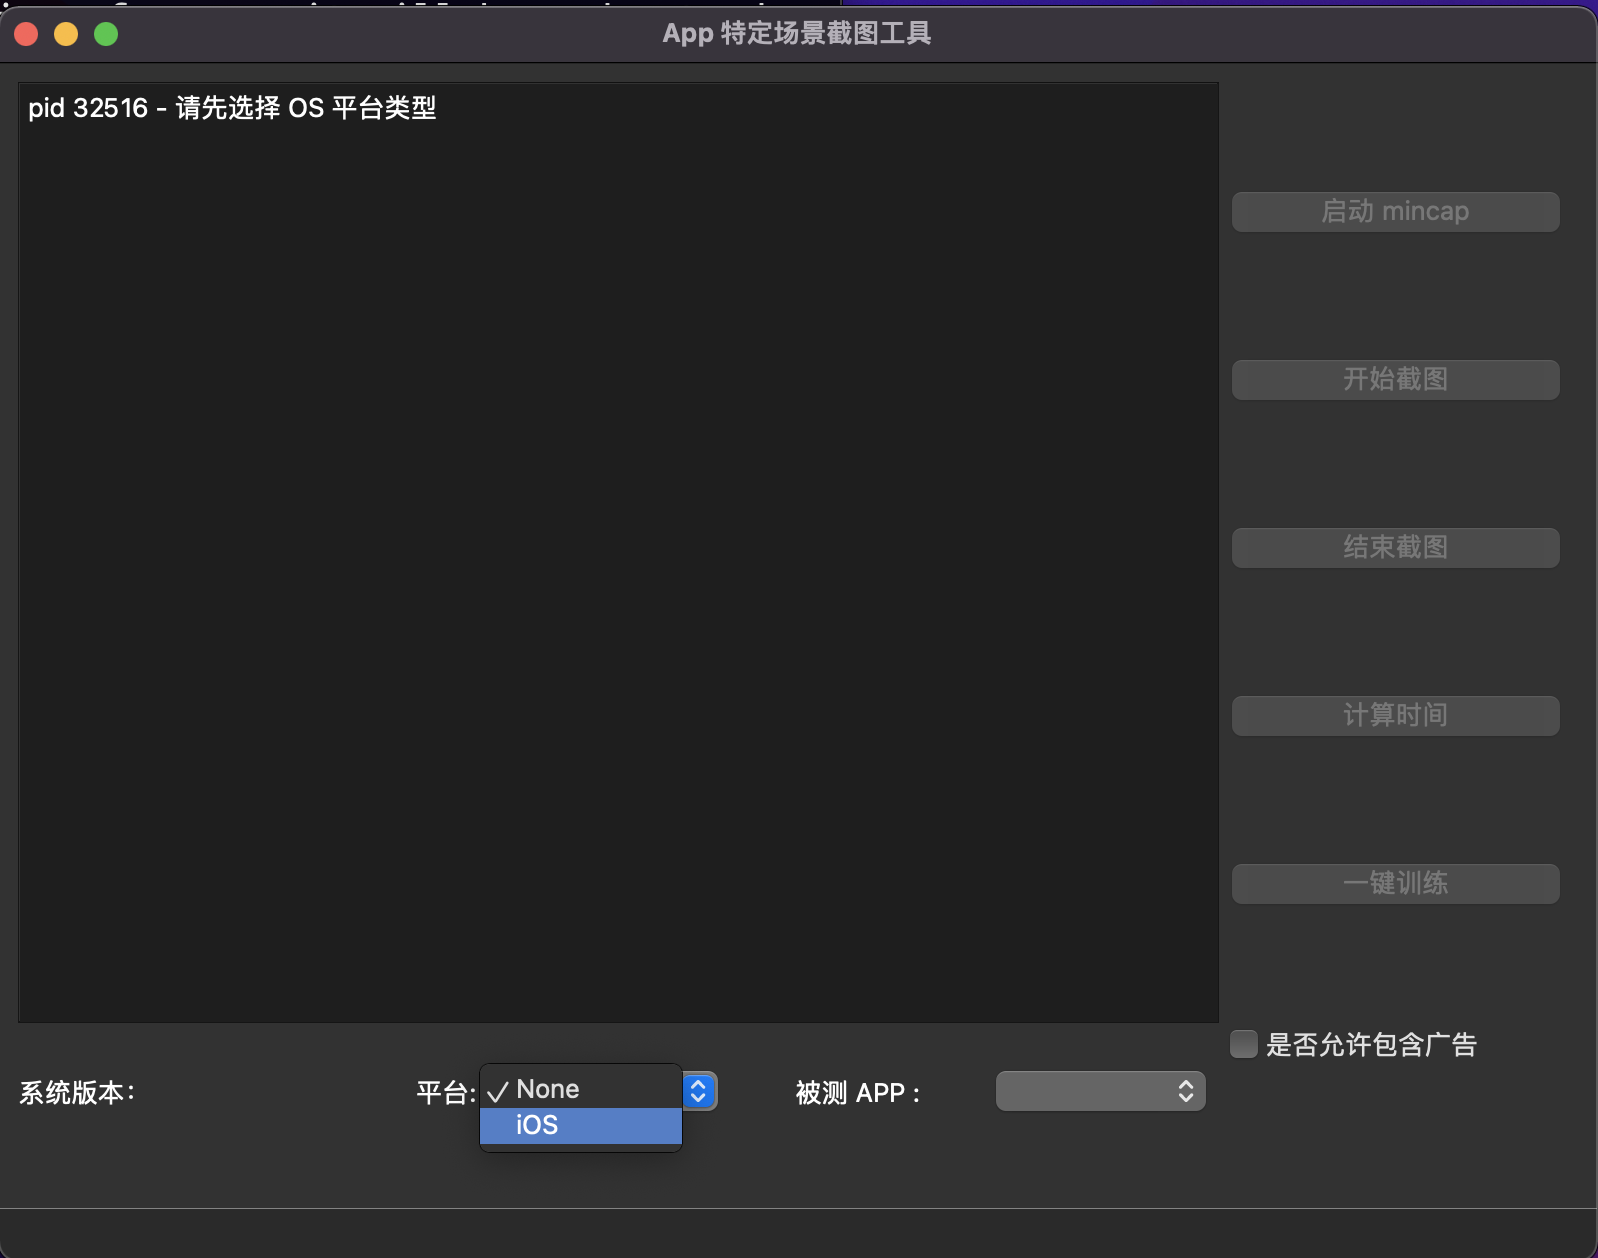
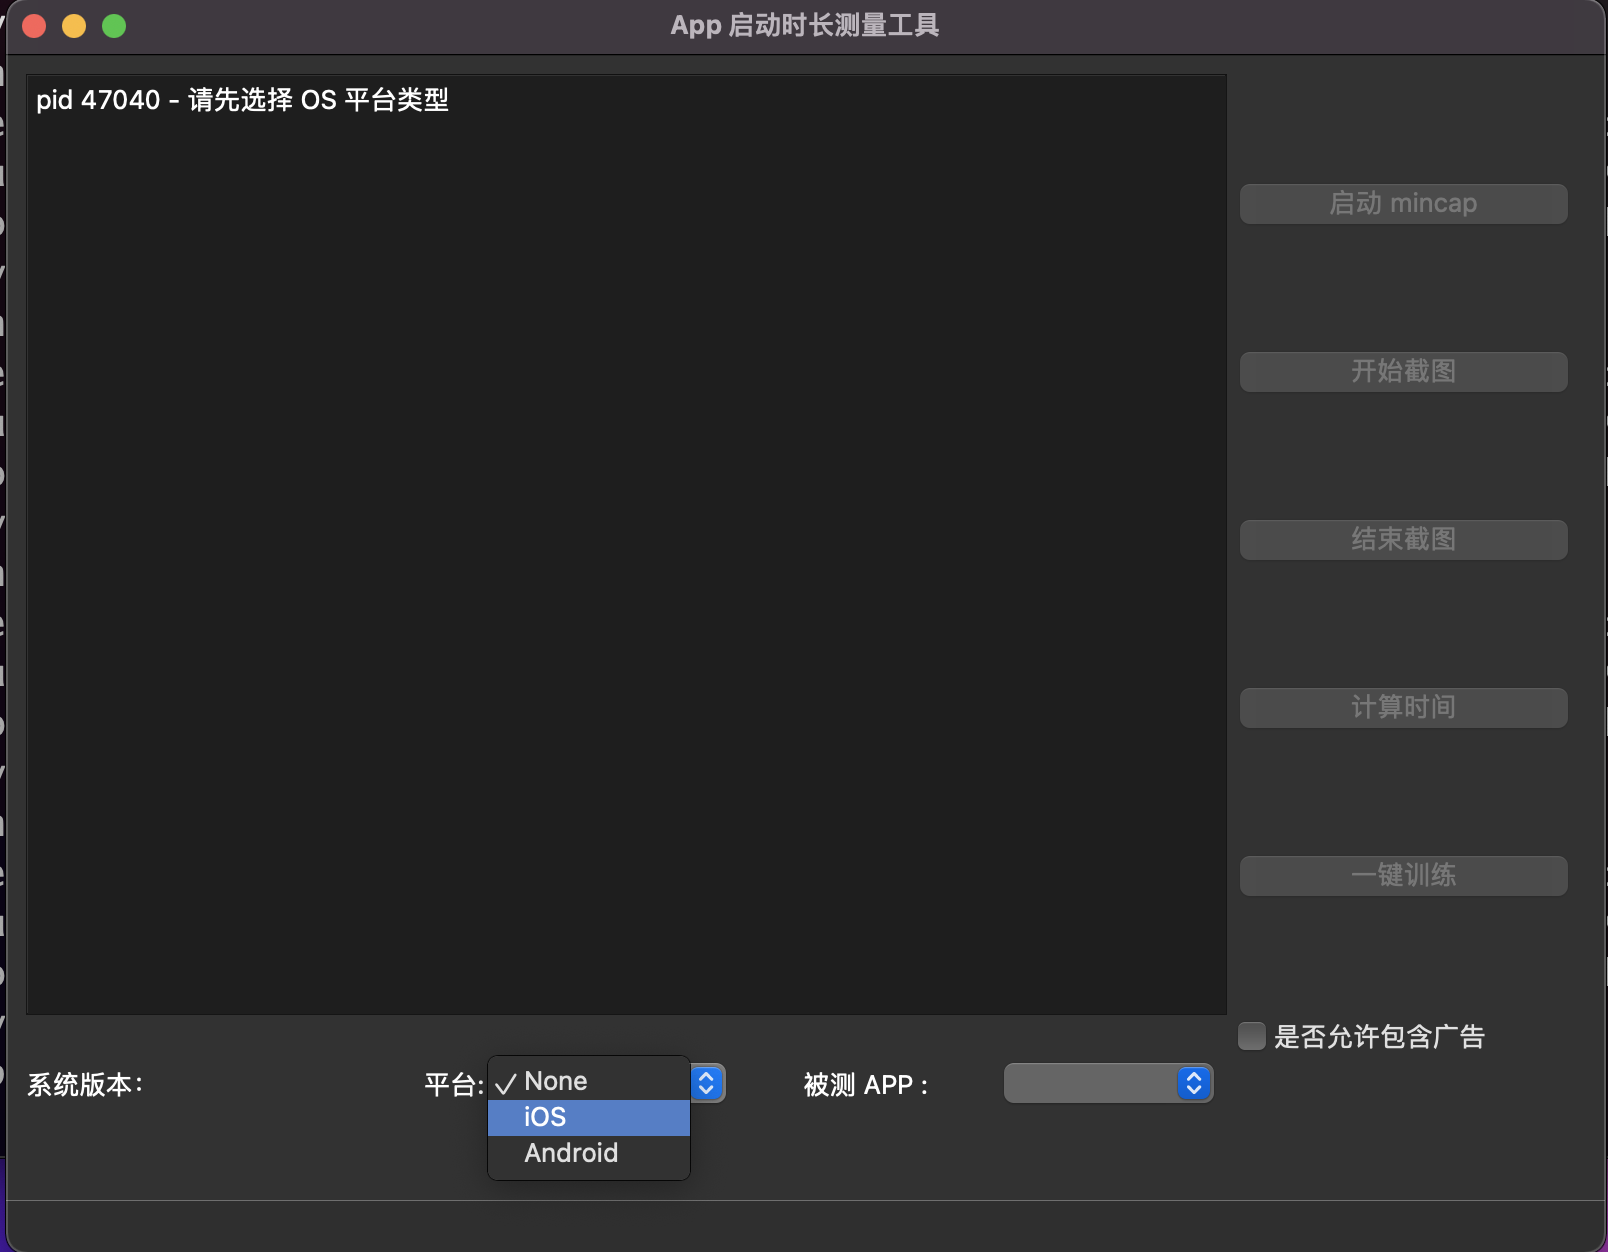
修改 readme，minicap 添加对 Android 10 的支持

diff --git a/Ui_MainWindow.py b/Ui_MainWindow.py
@@ -397,7 +397,7 @@ class Ui_MainWindow(QtCore.QObject):
         self.qt_signal.dt_signal[pb_index].emit(pb_index, value)
 
     def _setup_qt_signal(self):
-        screenshots_dir = os.path.join(self.TMP_IMG_DIR, "iOS")
+        screenshots_dir = os.path.join(self.TMP_IMG_DIR, self.test_os_type)
         times_list = [t for t in os.listdir(screenshots_dir) if not t.startswith(".")]
         times_list.sort()
         # counter 表示有多少个计算阶段
@@ -426,7 +426,7 @@ class Ui_MainWindow(QtCore.QObject):
 
     def retranslateUi(self, MainWindow):
         _translate = QtCore.QCoreApplication.translate
-        MainWindow.setWindowTitle(_translate("MainWindow", "App 特定场景截图工具"))
+        MainWindow.setWindowTitle(_translate("MainWindow", "App 启动时长测量工具"))
         self.startMinicap.setText(_translate("MainWindow", "启动 mincap"))
         self.start_screenshot_button.setText(_translate("MainWindow", "开始截图"))
         self.stop_screenshot_button.setText(_translate("MainWindow", "结束截图"))
@@ -482,7 +482,7 @@ class Ui_MainWindow(QtCore.QObject):
         self.shared_ui_msg_queue.put(json.dumps(msg))
 
     def _dispatch_cal_task(self):
-        screenshots_dir = os.path.join(self.TMP_IMG_DIR, "iOS")
+        screenshots_dir = os.path.join(self.TMP_IMG_DIR, self.test_os_type)
         times_list = list(self.search_price_dt.keys())
         times_list.sort()
         i = 0
@@ -519,7 +519,7 @@ class Ui_MainWindow(QtCore.QObject):
         self.textBrowser.append(content)
 
     def _cal_time(self, pic_dir, times_counter):
-        #todo 加一个控件，读取控件的值，决定 allowAD 的值
+        # todo 加一个控件，读取控件的值，决定 allowAD 的值
         temp_allow_ad = self.is_allow_ad_check_box.isChecked()
         ct = CalTime(main_window=self, times_counter=times_counter, test_app_code=self.test_app_code, allow_ad=temp_allow_ad)
         return ct.cal_time(pic_dir, EXCLUDED_LIST)
@@ -814,6 +814,8 @@ class Ui_MainWindow(QtCore.QObject):
         elif self.test_os_type == "Android":
             version = fobj.read().strip()
             self.ios_version_flag = True
+            msg = {JSON_PID_KEY: os.getpid(), JSON_TEXT_BROWSER_KEY: "查询系统版本成功，当前版本为：Android %s" % version}
+            self.shared_ui_msg_queue.put(json.dumps(msg))
             return "%s %s" % (self.test_os_type, version)
         else:
             return "请连接且信任 %s 所连接的电脑" % "iPhone" if self.test_os_type == "iOS" else "Android 设备"
@@ -848,5 +850,5 @@ class Ui_MainWindow(QtCore.QObject):
         初始化「操作系统类型选择列表」
         :return:
         '''
-        os_ls = ["None", "iOS"]
+        os_ls = ["None", "iOS", "Android"]
         self.platform_type_comboBox.addItems(os_ls)

diff --git a/ios_minicap/minicap.py b/ios_minicap/minicap.py
@@ -234,7 +234,7 @@ class MinicapStream(object):
 
         if code != 0:
             print(self.ip, self.port)
-            print("连接 minicap 套接字失败")
+            print("连接 minicap 套接字失败, code: ", code)
 
     def _disconnect_from_minicap(self):
         self.minicap_socket.shutdown(2)

diff --git a/README.md b/README.md
@@ -1,4 +1,4 @@
-# iOS App 启动时长测量工具
+## App 启动时长测量工具
 
 ## 环境配置
 
